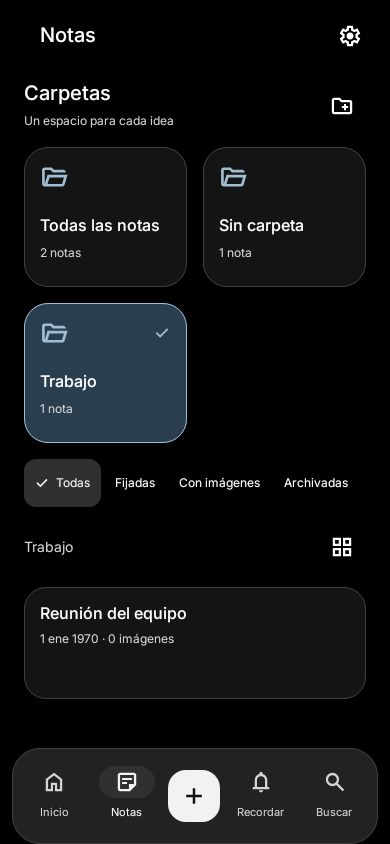
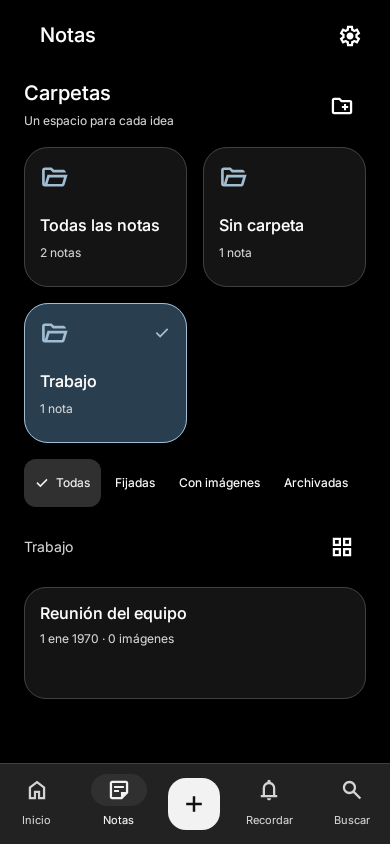
docs: refresh fixed app bar behavior and previews

Changed region(s): [[0.0, 0.8626, 1.0, 1.0]]

diff --git a/docs/pruebas.md b/docs/pruebas.md
@@ -46,7 +46,7 @@ Los filtros mostrados corresponden a las clases presentes en el repositorio.
 | `RichEditorTest` | 12 | Compatibilidad con texto antiguo, serialización, reapertura con negrita, deshacer/rehacer, limpieza parcial, listas, casillas, espaciado, color con selección conservada y estado de la barra y continuación/salida de listas con Intro, subtítulos y conservación de metadatos al deshacer y disponibilidad del campo nativo para accesibilidad. |
 | `ExampleUnitTest` | 1 | Prueba aritmética de ejemplo del proyecto; no valida funcionalidad de Clean Mind. |
 | `ReminderExportTest` | 5 | Repetición y serialización, programación/recuperación/cancelación de alarmas, TXT UTF-8 y paginación visual de exportación. |
-| `DesignUiTest` | 15 | Capturas locales, privacidad de previews, compartir con pulsación larga, búsqueda/cuadrícula, concentración, completado, ajustes, selección de fecha/hora y formulario independiente con confirmación al descartar y filtrado/movimiento de notas entre carpetas y exclusión de Volver en destinos ocultos, carpetas en cuadrícula y ausencia de búsqueda en Notas y botones del editor sin palabras partidas ni truncadas a 320 dp con fuente 1.35; ocultación/reaparición de la cabecera con scroll y acceso a Crear mientras está oculta. |
+| `DesignUiTest` | 15 | Capturas locales, privacidad de previews, compartir con pulsación larga, búsqueda/cuadrícula, concentración, completado, ajustes, selección de fecha/hora y formulario independiente con confirmación al descartar y filtrado/movimiento de notas entre carpetas y exclusión de Volver en destinos ocultos, carpetas en cuadrícula y ausencia de búsqueda en Notas y botones del editor sin palabras partidas ni truncadas a 320 dp con fuente 1.35; cabecera fija y viewport de agenda/cuadrícula delimitado entre ambas barras al desplazar. |
 
 Total actual: **69 pruebas locales**, de las cuales una es el ejemplo aritmético original. Esta cifra describe la suite actual y debe revisarse al añadir o retirar casos; no es un porcentaje de cobertura de código.
 
@@ -161,3 +161,11 @@ En el realme RMX3370, API 33, se revisaron el fondo negro uniforme, el contraste
 Se abrieron y cerraron las hojas de creación, carpetas, formato e imágenes. Su contenedor se prolonga hasta el borde inferior, cubriendo el área de navegación en lugar de dejar ver la barra de la app. Se comprobó también el tema claro y se restauró la preferencia previa Oscuro. Esta revisión física utiliza navegación por gestos; no se cambió la configuración de navegación del teléfono.
 
 La comparación final conservó idénticos los 11 registros de notas y recordatorios y la carpeta que había al comenzar esta revisión. Las capturas de `ui-preview/` se regeneraron con datos sintéticos; las capturas del dispositivo y sus copias de datos se conservan solo como material privado local.
+
+## Barras fijas · 26 de noviembre de 2026
+
+La barra inferior se cambia a `NavigationBar` Material 3 de ancho completo, acoplada al borde y con insets de sistema propios. Las cabeceras del cuaderno, pantallas con Volver y editor usan un fondo opaco del tema. Se retira `enterAlways` y el contenido del cuaderno reserva el espacio de ambas barras mediante el padding de `Scaffold`, sin duplicarlo dentro de las listas.
+
+La regresión de cabecera comprueba ahora que el título permanece visible al desplazar en ambos sentidos, que Crear sigue accesible y que los límites de los viewports de agenda y cuadrícula no invaden las barras. Esta revisión sustituye el comportamiento de ocultación descrito para el día 25. No había ningún teléfono conectado por ADB; se verifica localmente y no se afirma una nueva instalación o prueba física.
+
+Resultado local: compilaciones debug y release, lint de ambas variantes y las 69 pruebas correctas, sin fallos ni omisiones. Se regeneraron las capturas sintéticas con las barras fijas.

diff --git a/docs/glass-ui.md b/docs/glass-ui.md
@@ -6,7 +6,9 @@ La revisión del 25 de noviembre de 2026 adopta la alternativa Material 3 solici
 
 Las tarjetas emplean `surfaceContainerLow`, las barras inferiores `surfaceContainer` y los estados seleccionados `tertiaryContainer`. Los límites usan los roles de contorno del tema. Los colores se resuelven como superficies Material 3 y no como transparencias que varíen el contraste del texto según el contenido situado detrás.
 
-La cabecera del cuaderno es un `TopAppBar` transparente con desplazamiento `enterAlways`. La lista dibuja a lo largo de la ventana y aplica la separación inicial como `contentPadding`, de modo que su viewport no termina bruscamente bajo la barra. La franja de estado mantiene el color uniforme del tema para proteger la lectura del reloj. Al cambiar de pestaña se muestra de nuevo la cabecera. La fecha de cada grupo conserva su semántica de encabezado y utiliza 16 sp y peso seminegrita.
+Desde la revisión del 26 de noviembre, las cabeceras son fijas y tienen el color de fondo del tema. No se ocultan al desplazar ni dejan pasar texto por detrás. El contenido del cuaderno aplica el padding medido por `Scaffold` y consume esos insets antes de componer listas, cuadrículas y recordatorios; cada viewport queda entre las barras, con su espaciado propio de 8/24 dp. La fecha de cada grupo conserva su semántica de encabezado y utiliza 16 sp y peso seminegrita.
+
+La barra inferior es un `NavigationBar` Material 3 acoplado al borde, sin márgenes exteriores, esquinas de tarjeta ni elevación flotante. Su superficie ocupa todo el ancho y también el área de navegación del sistema. Se conserva la acción central Crear.
 
 Todas las hojas inferiores de la app pasan por `AppBottomSheet`. El propio `ModalBottomSheet` pinta su contenedor, incluida la separación de navegación del sistema. Así no queda una franja transparente que deje ver la barra de la app por debajo. Se conserva el manejo de insets de Material 3 y se desactiva el scrim adicional de contraste de navegación en la ventana de la hoja desde API 29.
 

diff --git a/docs/figma-ui.md b/docs/figma-ui.md
@@ -72,3 +72,5 @@ La revisión posterior simplifica los recordatorios independientes en tareas con
 Las carpetas, el arranque monocromo y las transiciones se incorporan por las nuevas peticiones del usuario y amplían la referencia original. Consulta [Carpetas](carpetas.md) y [Movimiento y arranque](movimiento.md).
 
 Las carpetas en cuadrícula son un cambio posterior pedido por el usuario. El 25 de noviembre, el acabado de cristal se sustituyó por la alternativa Material 3: fondo negro uniforme en oscuro, contraste alto, cabecera transparente con scroll y hojas continuas hasta el área de navegación. Notas ya no incorpora una búsqueda local; la búsqueda global continúa en su pestaña.
+
+El 26 de noviembre se fijan las cabeceras y se hacen opacas para impedir superposiciones con el texto. La barra inferior pasa a estar acoplada al borde, con ancho completo. La distribución del contenido respeta el espacio reservado para ambas barras.
